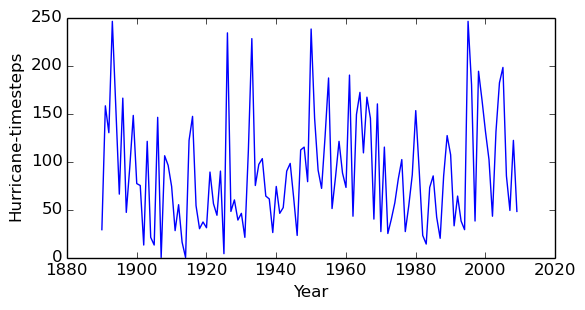
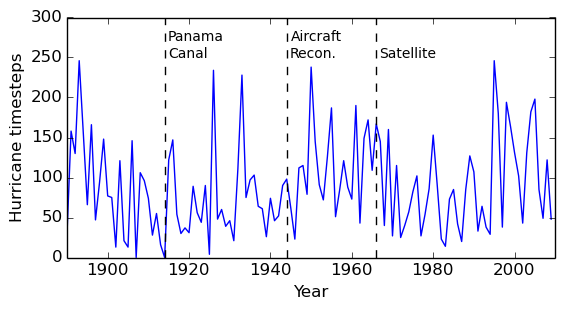
Finish off abstract, add supporting text to IBTrACS section and introduce some concepts.
Update the figures in that section. Make some minor changes suggested by RM.

diff --git a/dissertation.tex b/dissertation.tex
@@ -77,12 +77,12 @@
 
 % Should be <= 400 words.
 % Not included in word count.
-% ~262 words so far.
+% ~369 words so far.
 A procedure for the detection of hurricanes in the 20\ts{th} Century Reanalysis Project dataset is
 developed. Tracks are derived from the dataset by tracking vorticity maxima over time. These derived
 tracks are matched against best tracks taken from the International Best Track Archive for Climate
 Stewardship (IBTrACS) best tracks dataset. Six different tracking configurations are evaluated:
-using the vorticity at the 0.995 times the surface and \SI{850}{hPa} pressure levels and using the
+using the vorticity at 0.995 times the surface and \SI{850}{hPa} pressure levels and using the
 original resolution data, data downscaled by cubic interpolation to two and three times the original
 resolution. It is found that using downscaling to three times the resolution provides a better match
 between the derived tracks and the best tracks. Tracks at the different pressure levels produce
@@ -99,12 +99,20 @@ metrics.
 
 The hurricane detection procedure is run over the course of the 20\ts{th} century, and a comparison
 between the estimated number of hurricanes and the number as recorded in the IBTrACS dataset is
-performed. It is found that TODOWRITE
+performed. It is found that there is good correlation between the two time series, and that there
+are significant discrepancies between the two series between 1890 to 1914 and 1945 to 1965. Between
+1890 and 1914, the estimated hurricane count is higher than the best tracks count. Between 1945 and
+1965, fewer estimated hurricanes are found than best tracks hurricanes. 
+
+A downwards trend in both the estimated and best tracks hurricanes is detected from 1890 to 1914. An
+upwards trend in the number of hurricanes from 1966 to 2009 is also detected from the estimated
+number of hurricanes, although this may be due to detecting fewer hurricanes in the 1960s and 1970s.
 
 \begin{center}
 \textbf{Word count:} 9439 % 8221 + 1218 (captions) 26/08/14 11:08
 \end{center}
 
+\newpage
 \section*{Acknowledgements}
 
 I would like to thank Dr. Chris Brierley for his guidance and assistance in this dissertation.
@@ -112,6 +120,8 @@ Technical expertise from Qinling Wu proved useful in setting the direction for t
 Talking to Joshua Studholme helped to provide context for the field and ideas for analysis, as well
 as giving me some pointers on extratropical transitions. % TODOIMPROVE: CLUMSY
 Dr. Kevin Hodges (Reading University) provided many useful suggestions for the tracking algorithm.
+The 20\ts{th} Century Reanalysis Project and the IBTrACS projects are both excellent resources, 
+with the first providing over 1.3 terabytes of data.
 Finally, numerous discussions with Robert Muetzelfeldt were invaluable for keeping me on track and
 for sounding out various ideas.
 
@@ -143,7 +153,7 @@ contribution is large enough that it may affect the thermohaline circulation
 \parencite{hu2009effect}, a major component of the coupled atmosphere-ocean system of the Earth. So,
 coupled with their socio-economic impact, understanding hurricanes is of intrinsic scientific
 interest too, helping to understand the Earth's climate and to produce more accurate General
-Circulation Models.
+Circulation Models (GCMs).
 
 % Effects of global warming on frequency/intensity.
 From a theoretical perspective, increasing global mean temperatures are predicted to lead to an
@@ -374,15 +384,16 @@ The process by which estimates are produced involves three main steps:
     \item Use GCM to predict the state of the atmosphere at the next timestep (repeated)
 \end{enumerate}
 
-56 individual GCMs are initialised with climatalogical states taken from 14 months before the start
-of the production period, i.e. the period over which estimates are produced. The GCMs are then run
-for 14 months, to ``reduce the effect of the initial condition in the lower layers of the land
-model.'' This makes use of the SST and sea ice data. At this point, the 56 different states of the
-atmosphere from the GCMs are used as background states for the EKF, which assimilates the pressure
-observations for the current timestep, to produce 56 estimates for the state of the atmosphere based
-on the GCM output and the observations. These estimates are then used as the starting point for the
-GCMs, which predict what the state of the atmosphere will be in 6 hours time, and this is used as
-the background state for the EKF, which assimilates the pressure observations at the new timestep.
+56 individual instances of the GCM are initialised with climatalogical states taken from 14 months
+before the start of the production period, i.e. the period over which estimates are produced. The
+instances are then run for 14 months, to ``reduce the effect of the initial condition in the lower
+layers of the land model.'' This makes use of the SST and sea ice data. At this point, the 56
+different states of the atmosphere from the instances are used as background states for the EKF,
+which assimilates the pressure observations for the current timestep, to produce 56 estimates for
+the state of the atmosphere based on the GCM output and the observations. These estimates are then
+used as the starting point for the instances, which predict what the state of the atmosphere will be
+in 6 hours time, and this is used as the background state for the EKF, which assimilates the
+pressure observations at the new timestep.
 
 % Feeds this estimate back into the GCM to run another forecast
 % Consistency of each EM not an issue (ref compo2011)
@@ -413,7 +424,7 @@ track's course.
 % * neff2013
 % * emanuel2010
 
-\subsection{Representations of Hurricanes in the 20CR dataset}
+\subsection{Detection of Hurricanes in the 20CR dataset}
 
 In \textcite{neff2013analysis}, the path of the Galveston Hurricane of the 8\ts{th} September, 1900
 is analysed. The analysis finds that the hurricane is detectable through a minimum in the pressure
@@ -458,21 +469,44 @@ and in this study only the North Atlantic (NA) basin will be utilised. The prima
 for this basin is the Atlantic Hurricane Database \parencite[HURDAT;][]{jarvinen1984tropical}, indeed
 there are ``no new storms in the NA or EP basins'' in the IBTrACS dataset.
 
+Figure \ref{fig:hurr_per_year} shows the hurricane timesteps per year, where a hurricane timestep is
+defined as being one individual recorded hurricane per 6-hour timestep in the best tracks database.
+This means that one hurricane track over the course of the day counts as four hurricane timesteps,
+and if there are multiple hurricane tracks active in one timestep then each one will count towards
+the total hurricane timesteps. 
+
+Following \textcite{vecchi2008estimates}, four historical eras are shown in this figure, henceforth
+called the pre-Panama Canal (1890 - 1914), Panama Canal (1915 - 1943), aircraft reconnaissance (1944
+- 1965) and satellite (1966 - 2009) eras.  These are of significance to the number of observed
+hurricanes in the best tracks dataset. Before the opening of the Panama Canal, shipping was
+mostly concentrated in the northern and eastern tropical Atlantic, and along the east coast of North
+America. This meant that there were fewer ships in the Gulf of Mexico, an active hurricane area, and
+consequently there is thought to be a gap in the recorded hurricanes in this period from this area.
+The aircraft reconnaissance era lead to more detailed observations of hurricanes, although coverage
+did not extend across the entire North Atlantic. Finally, after the advent of satellite technology,
+the entire basin could be covered, and this began in 1966 \parencite{landsea2007counting}.
+
 % TODO Explain what a hurricane timestep is.
 % TODO Add eras to hurricane timesteps. 
 
-\begin{figure}[hm!]
+\begin{figure}[hb!]
     \centering
     \includegraphics[width=\textwidth]{figures/hurr_per_year}
     \caption{Hurricane timesteps from 1890 to 2009.}
     \label{fig:hurr_per_year}
 \end{figure}
 
-\begin{figure}[hm!]
+\newpage
+Figure \ref{fig:yearly_hurr_dist} shows how the hurricanes are distributed over the course of a
+year. Black dashed lines show the 1\ts{st} of June and the 1\ts{st} of December, and it is clear
+that the vast majority of hurricanes (over 99\%) fall within this period. For this reason, only
+dates that fell within this range were considered when detecting hurricanes in this study.
+
+\begin{figure}[hb!]
     \centering
     \includegraphics[width=\textwidth]{figures/yearly_hurr_dist}
-    \caption{Hurricane distribution over the course of the year. The 1\ts{th} of June and the
-    1\ts{th} of December are shown, these indicate the start and end of the analysis period in this
+    \caption{Hurricane distribution over the course of the year. The 1\ts{st} of June and the
+    1\ts{st} of December are shown, these indicate the start and end of the analysis period in this
 study. It can be seen that the vast majority of hurricanes fall within this period.}
     \label{fig:yearly_hurr_dist}
 \end{figure}
